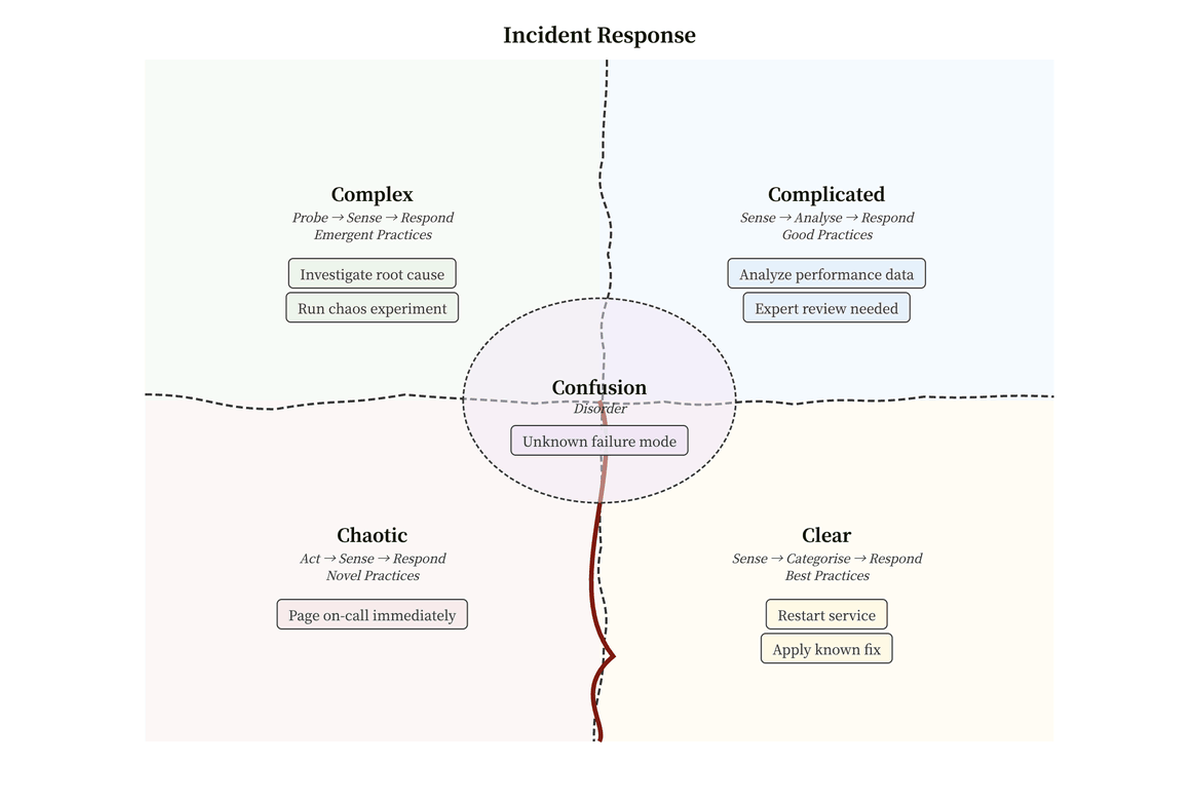
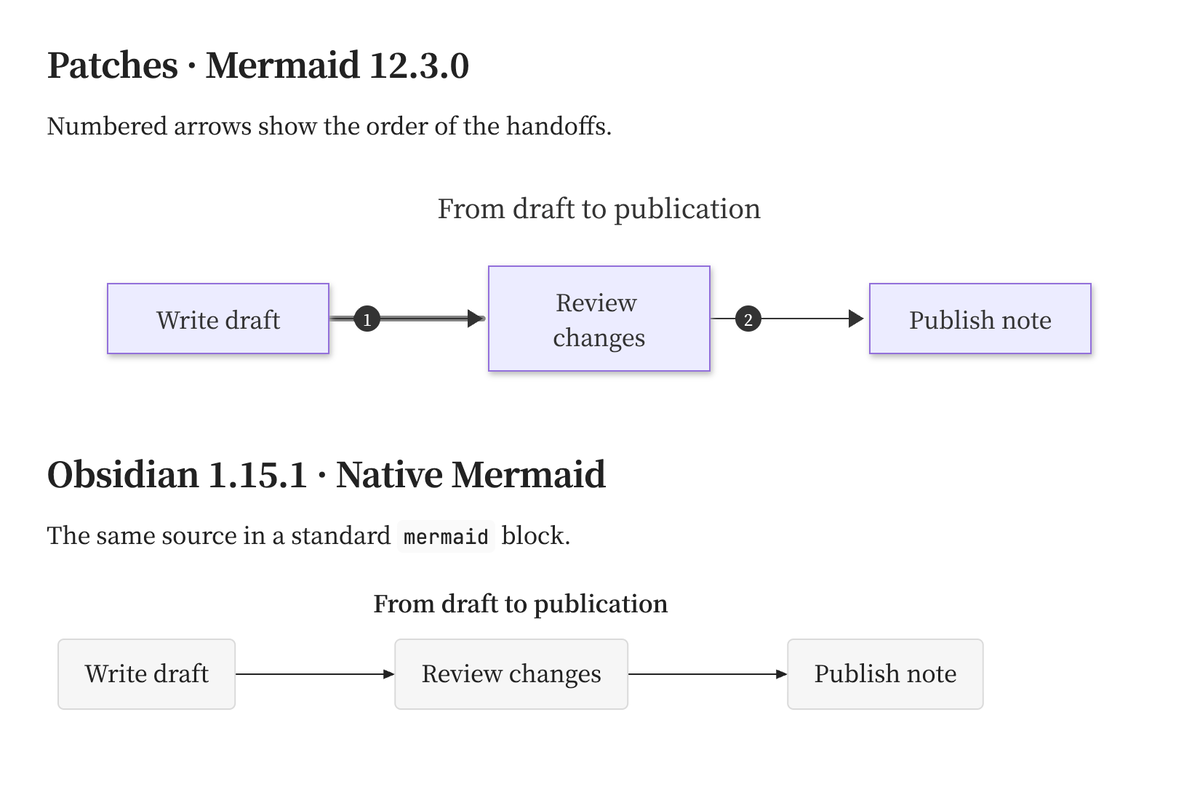
docs: demonstrate numbered Mermaid flowchart steps

diff --git a/site/features/mermaid.md b/site/features/mermaid.md
@@ -1,6 +1,41 @@
 # Mermaid diagrams
 
-Use newer Mermaid diagram types and syntax without waiting for Obsidian to update its renderer. Write a `patch-mermaid` code block. The community build uses the Mermaid version bundled with Patches, updated through plugin releases; the full build also offers remote versions.
+Use a `patch-mermaid` block to render a diagram with the Mermaid engine bundled with Patches. A standard `mermaid` block uses Obsidian’s own renderer.
+
+## Number the steps in a flowchart
+
+Follow a note from its first draft to publication. The numbers show the order at a glance. During playback, a dot and a thicker line mark the active handoff.
+
+<figure>
+  <picture>
+    <source media="(prefers-reduced-motion: reduce)" srcset="../../docs/images/mermaid-flow-steps.png">
+    <img src="../../docs/images/mermaid-flow-steps.gif" alt="From draft to publication. Arrow 1 connects Write draft to Review changes. Arrow 2 connects Review changes to Publish note.">
+  </picture>
+  <figcaption>Each arrow takes a turn for 1.5 seconds. Both numbers stay visible throughout the loop.</figcaption>
+</figure>
+
+````markdown
+```patch-mermaid
+---
+title: From draft to publication
+config:
+  layout: dagre
+  flowchart:
+    stepNumbers: true
+    stepDuration: 1.5
+    rankSpacing: 110
+---
+flowchart LR
+  A[Write draft] review@--> B[Review changes]
+  B publish@--> C[Publish note]
+  review@{ step: 1 }
+  publish@{ step: 2 }
+```
+````
+
+Patches 0.4.0 bundles Mermaid 12.3.0, which introduced numbered flowchart steps. Keep `layout: dagre` in this example to show the badges. In Obsidian 1.15.1, the same source in a native block draws the three nodes and two static arrows. Obsidian documents Mermaid 12.1.0 syntax support in its Pele renderer. [Mermaid flowchart steps](https://mermaid.js.org/syntax/flowchart.html#step-by-step-flow-animation-v12-3-0) · [Obsidian’s diagram release notes](https://obsidian.md/changelog/2026-11-02-desktop-v1.15.0/)
+
+## Match the note’s theme
 
 ![A Cynefin incident response diagram following Obsidian's light and dark themes](../../docs/images/mermaid-theme.gif)
 
@@ -31,7 +66,7 @@ cynefin-beta
 ```
 ````
 
-Diagrams follow Obsidian's theme and Mermaid font. Leave `theme` unset in diagram configuration to follow light and dark mode automatically. Standard `mermaid` blocks use Obsidian’s renderer. Obsidian 1.15 introduced Pele with a documented Mermaid 12.1.0 syntax baseline. Patches 0.4.0 bundles the upstream Mermaid 12.3.0 engine for `patch-mermaid`. [Obsidian’s diagram release notes](https://obsidian.md/changelog/2026-11-02-desktop-v1.15.0/)
+Diagrams follow Obsidian's theme and Mermaid font. Leave `theme` unset in diagram configuration to follow light and dark mode automatically.
 
 | Setting         | Choices                                                                                                                                                                       |
 | --------------- | ----------------------------------------------------------------------------------------------------------------------------------------------------------------------------- |

diff --git a/docs/integration-testing.md b/docs/integration-testing.md
@@ -56,7 +56,7 @@ A frozen Obsidian process or a non-returning native operation cannot be forcibly
 
 ## Development checks — 2026-11-18
 
-The Community candidate passed 138 unit tests, and the Full candidate passed 143. Each passed its own production build and release-package validation. The Community site built 21 pages with 847 local links and assets. Desktop (1280 px) and mobile-width (390 px) browser checks covered the demo buttons, images, layout, and the Unreleased link. The native suites below ran sequentially in `dev-vault` on macOS with Obsidian 1.15.1.
+The Community candidate passed 138 unit tests, and the Full candidate passed 143. Each passed its own production build and release-package validation. The initial Community site build covered 21 pages and 847 local links and assets. Desktop (1280 px) and mobile-width (390 px) browser checks covered the demo buttons, images, layout, and the Unreleased link. The native suites below ran sequentially in `dev-vault` on macOS with Obsidian 1.15.1.
 
 | Native suite | Community | Full | What was verified |
 | --- | ---: | ---: | --- |
@@ -66,6 +66,10 @@ The Community candidate passed 138 unit tests, and the Full candidate passed 143
 | Mermaid | 32 | 31 | Both checked unsaved edits, nested fences, stale results, undo, and a Reading-view jump that preserved CRLF file bytes. The bundled version was 12.3.0. Full also rendered with custom 12.1.0 from jsDelivr and displayed that engine’s version in the whole-note check. [Checker design](code-block-lint-and-bilingual-translation.md#code-block-linting) |
 
 Both reports kept the final actions reachable with 32 entries at 100%, 150%, and 200% desktop zoom and in a 340 CSS pixel container. In the GitHub report, Space expanded only the focused row. Supported alerts with an advisory kept their explanation, and fully compatible alerts showed only **Jump**. All completed suites restored settings, the previous tab, editor sizes, and background throttling. The final Icons run restored the Community plugin files to the development vault. Native mobile, Windows, and Linux checks were outside this round.
+
+### Numbered flowchart example
+
+On Obsidian 1.15.1, the published 0.4.0 Community build and both development builds rendered steps 1 and 2 with Bundled 12.3.0, Strict, and the diagram’s explicit Dagre layout. Both arrows took turns highlighting and the dot moved along each one. The same source drew a static three-node flowchart in native Pele and in Full with upstream Mermaid 12.1.0 selected. The gallery and the 60-frame site loop were captured from the published build. The updated site passed checks for 21 pages and 850 links and assets. At both 390 and 1280 px, Chrome loaded the GIF with standard motion and the PNG when reduced motion was requested. All three sessions restored the original settings and tab. After the final session, the development vault’s three plugin files matched the original Community candidate byte for byte. [Diagram source](../site/features/mermaid.md#number-the-steps-in-a-flowchart) · [Gallery comparison](images/community/05-mermaid-diagram.png)
 
 ### Earlier Mermaid checks
 

diff --git a/docs/site-design.md b/docs/site-design.md
@@ -26,9 +26,13 @@ The gallery shows five features available in 0.4.0. Each upload is a 1200 × 800
 | 2 | [Icon colors](images/community/02-icon-colors.png) | The Python icon preview, its brand color, and the color controls in one picker. |
 | 3 | [HTML table editor](images/community/03-table-editor.png) | A kana chart with grouped cells, a selected row segment, and the editing toolbar. |
 | 4 | [Callout code](images/community/04-callout-code.png) | Syntax-highlighted code in a dark-theme warning and its nested tip. |
-| 5 | [Mermaid diagram](images/community/05-mermaid-diagram.png) | A Cynefin diagram for classifying incidents, with labels visible in all four domains. |
+| 5 | [From draft to publication](images/community/05-mermaid-diagram.png) | Two numbered handoffs in Patches 0.4.0 above the same source in Obsidian 1.15.1’s native Mermaid block. |
 
 ## Feature demo captures
+
+The fifth screenshot and the [three-second flowchart loop](images/mermaid-flow-steps.gif) come from the published Community 0.4.0 files in Obsidian 1.15.1. Use the English publishing workflow in the [Mermaid guide](../site/features/mermaid.md#number-the-steps-in-a-flowchart) with Bundled and Strict. Set `layout: dagre` within the diagram. In this example, the bundled default ELK layout plays the steps but omits both badges. Obsidian’s native block draws the same nodes and arrows without step numbering or playback.
+
+For the Directory comparison, show the same source in `patch-mermaid` and `mermaid` fences in one Reading view. The site loop samples that rendered SVG at 20 frames per second for one complete cycle. A still from the loop is displayed when the browser requests reduced motion.
 
 The icon-color, exact-width, and callout-code demos were refreshed from the working Community build on 2026-11-17, using macOS / Obsidian 1.15.1 and the default theme. They are stepped animations of real captured interface states. The source frames are only scaled and palette-encoded; controls and rendered output are not reconstructed or painted over. The callout note labels the active background option and theme so the before/after states remain clear.
 

diff --git a/README.md b/README.md
@@ -42,7 +42,7 @@ Find each group under **Settings → Patches**. Open a feature guide for example
 <tr><th scope="row">Math Format</th><td><a href="https://yaroxy.github.io/obsidian-patch/features/math-format.html">Display math</a></td><td>Indent and align formulas.</td></tr>
 <tr><th scope="row">Patch Banner</th><td><a href="https://yaroxy.github.io/obsidian-patch/features/banner.html">Note covers</a></td><td>Use a vault image, animation, or video as a cover. The development build also lets you set its width per note.</td></tr>
 <tr><th scope="row">Patch Icons</th><td><a href="https://yaroxy.github.io/obsidian-patch/features/icons.html">File and folder icons</a></td><td>Choose Lucide icons or brand marks and set their colors.</td></tr>
-<tr><th scope="row">Patch Mermaid</th><td><a href="https://yaroxy.github.io/obsidian-patch/features/mermaid.html">Diagrams</a></td><td>Render diagrams with bundled Mermaid. The development build can check a note and jump to syntax errors.</td></tr>
+<tr><th scope="row">Patch Mermaid</th><td><a href="https://yaroxy.github.io/obsidian-patch/features/mermaid.html#number-the-steps-in-a-flowchart">Diagrams</a></td><td>Number flowchart steps and watch the arrows play in order. The development build can also check a note for syntax errors.</td></tr>
 <tr><th scope="row">PDF Export</th><td><a href="https://yaroxy.github.io/obsidian-patch/features/pdf-export.html">PDF navigation</a></td><td>Add heading bookmarks and same-note heading links to desktop exports.</td></tr>
 <tr><th scope="row">No settings required</th><td><a href="https://yaroxy.github.io/obsidian-patch/features/tables.html">HTML tables</a></td><td>Visually edit merged cells, grouped headers, and captions. Convert Markdown tables.</td></tr>
 </tbody>

diff --git a/CHANGELOG.md b/CHANGELOG.md
@@ -14,6 +14,7 @@ The format is based on [Keep a Changelog](https://keepachangelog.com/en/1.1.0/),
 
 ### Changed
 
+- Show Mermaid 12.3.0’s numbered flowchart steps in the diagram guide and the Community Directory screenshot set.
 - **Callouts on GitHub** shows each callout’s line and whether GitHub renders it as an alert or a plain blockquote. **Details** expands the reasons for one row. **Jump** goes to the callout in the current view. Long lists scroll below the summary.
 - **Icons of missing files** lists the full vault paths before cleanup. Clicking **Remove** rechecks each displayed path so a restored file keeps its icon and color.
 - Personal builds print the bundled Mermaid version and a reminder to test a custom pin. The README documents how to select an exact version.
